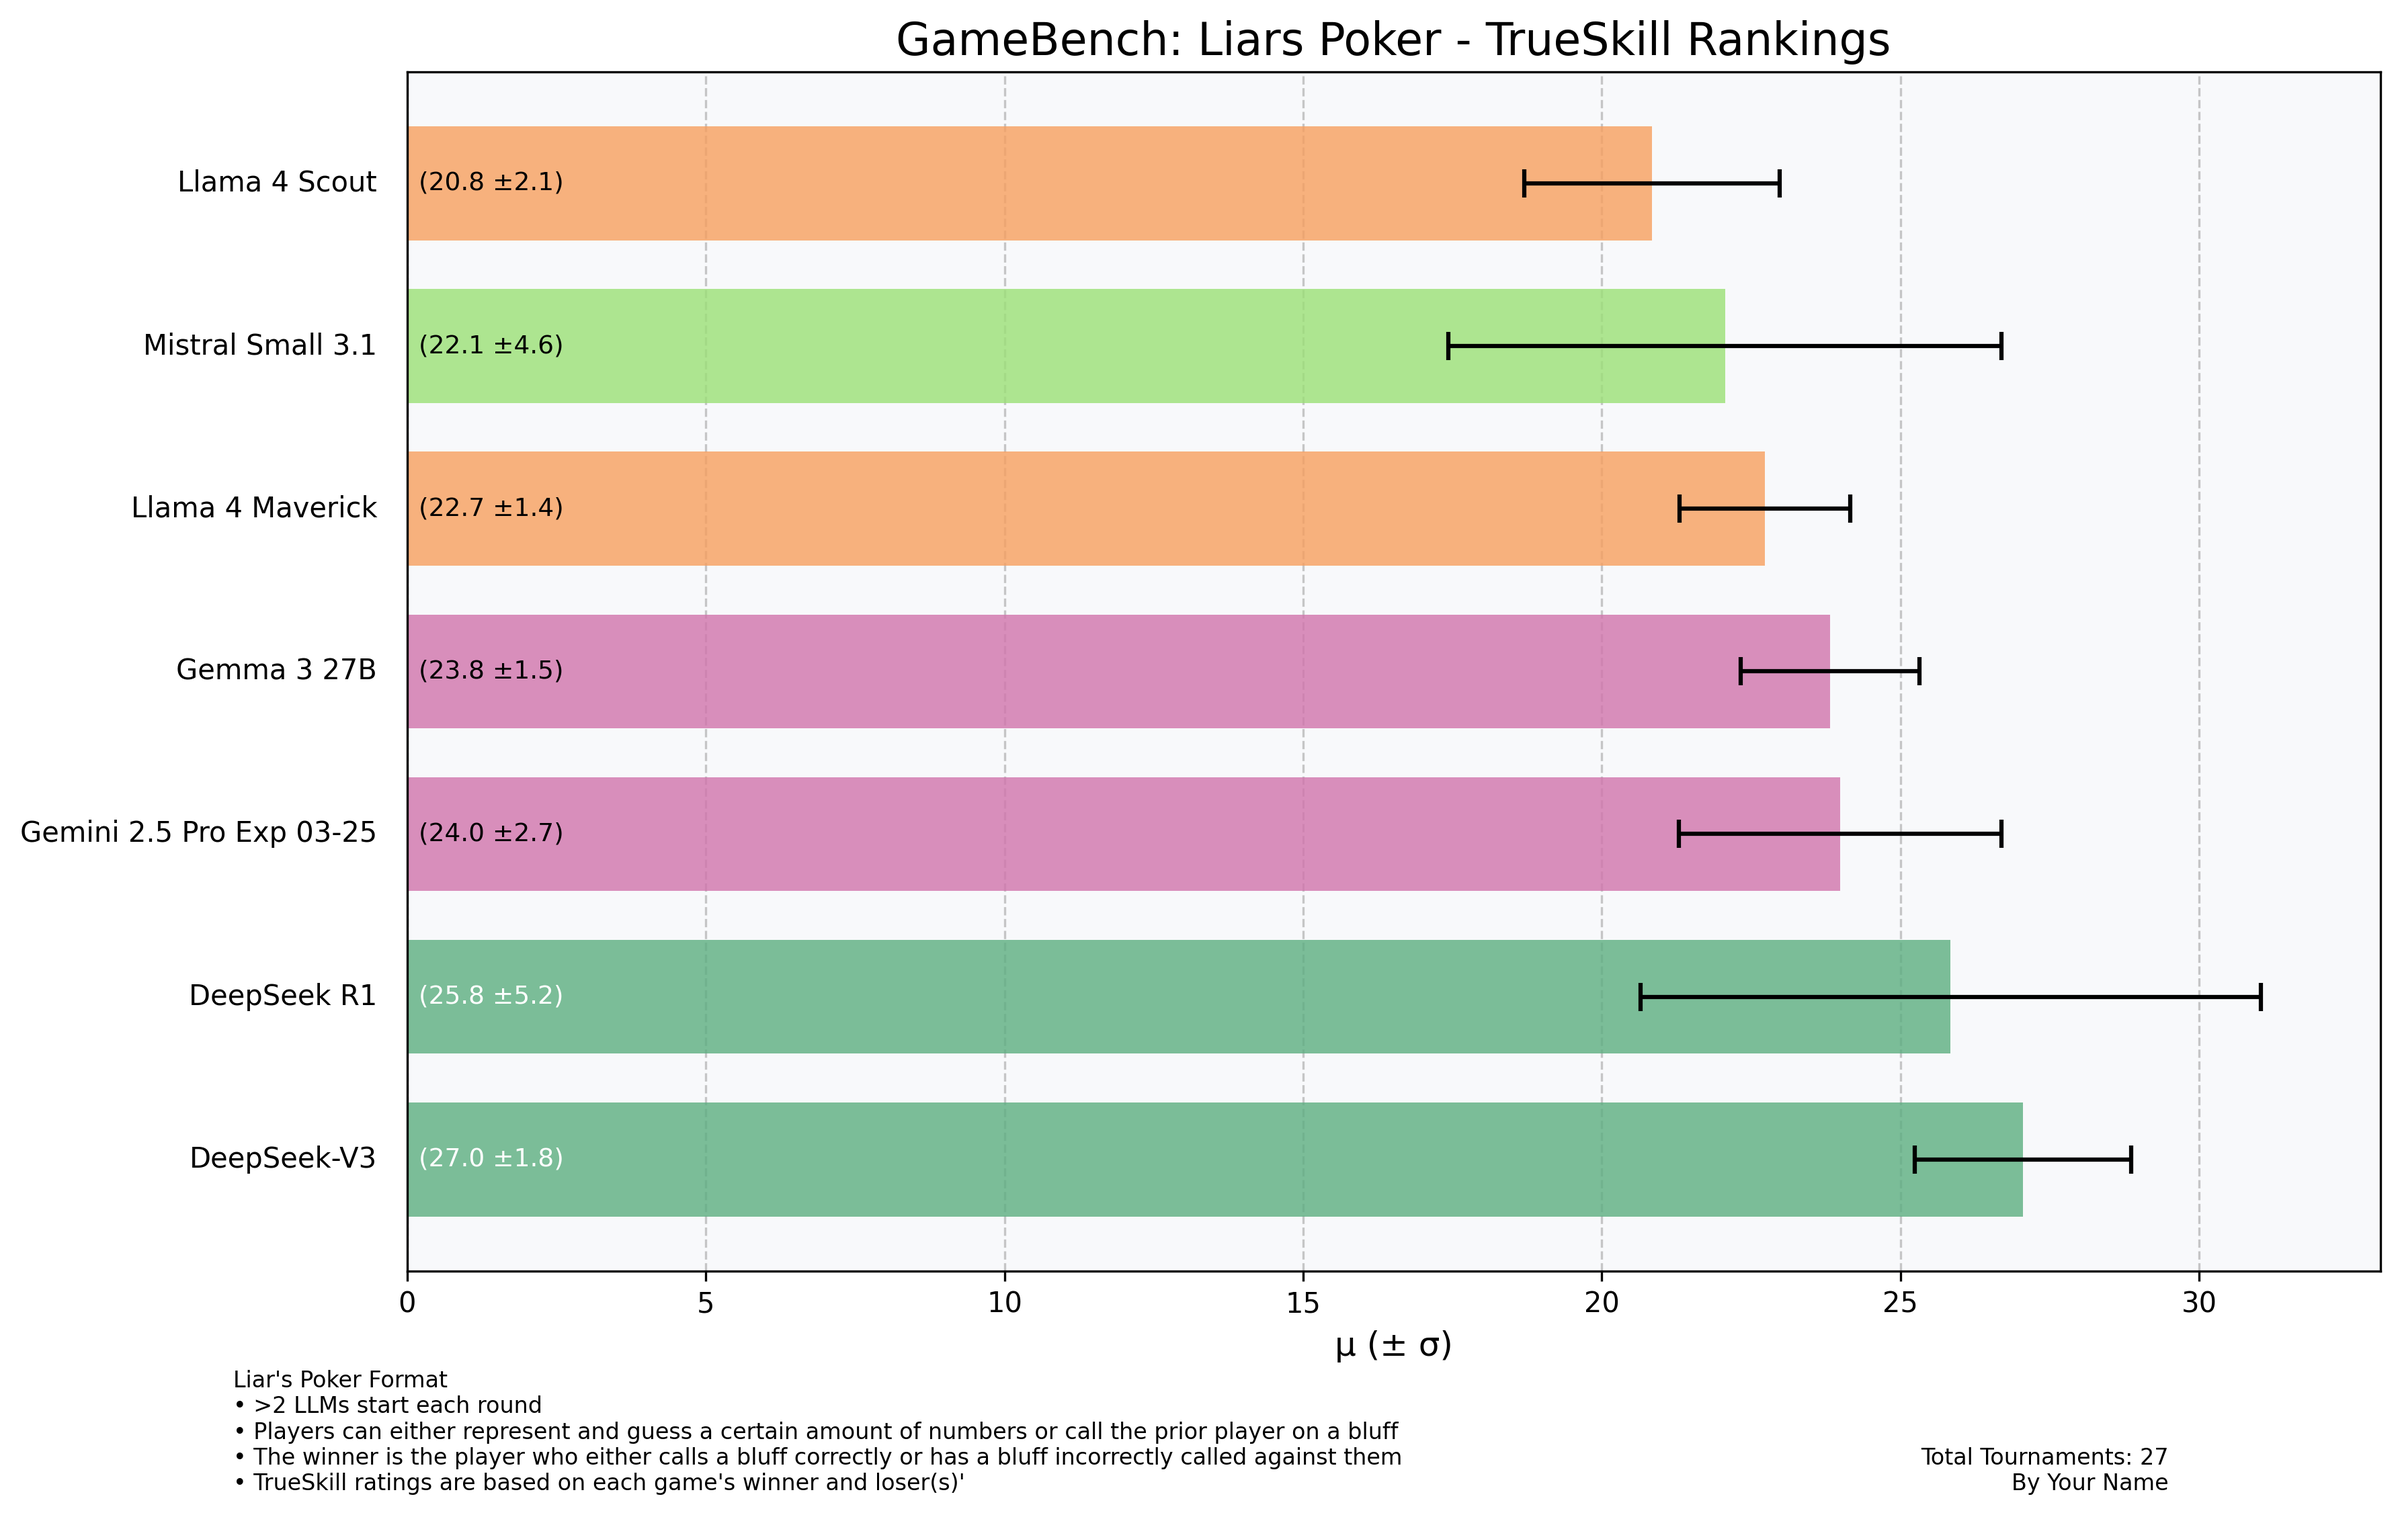
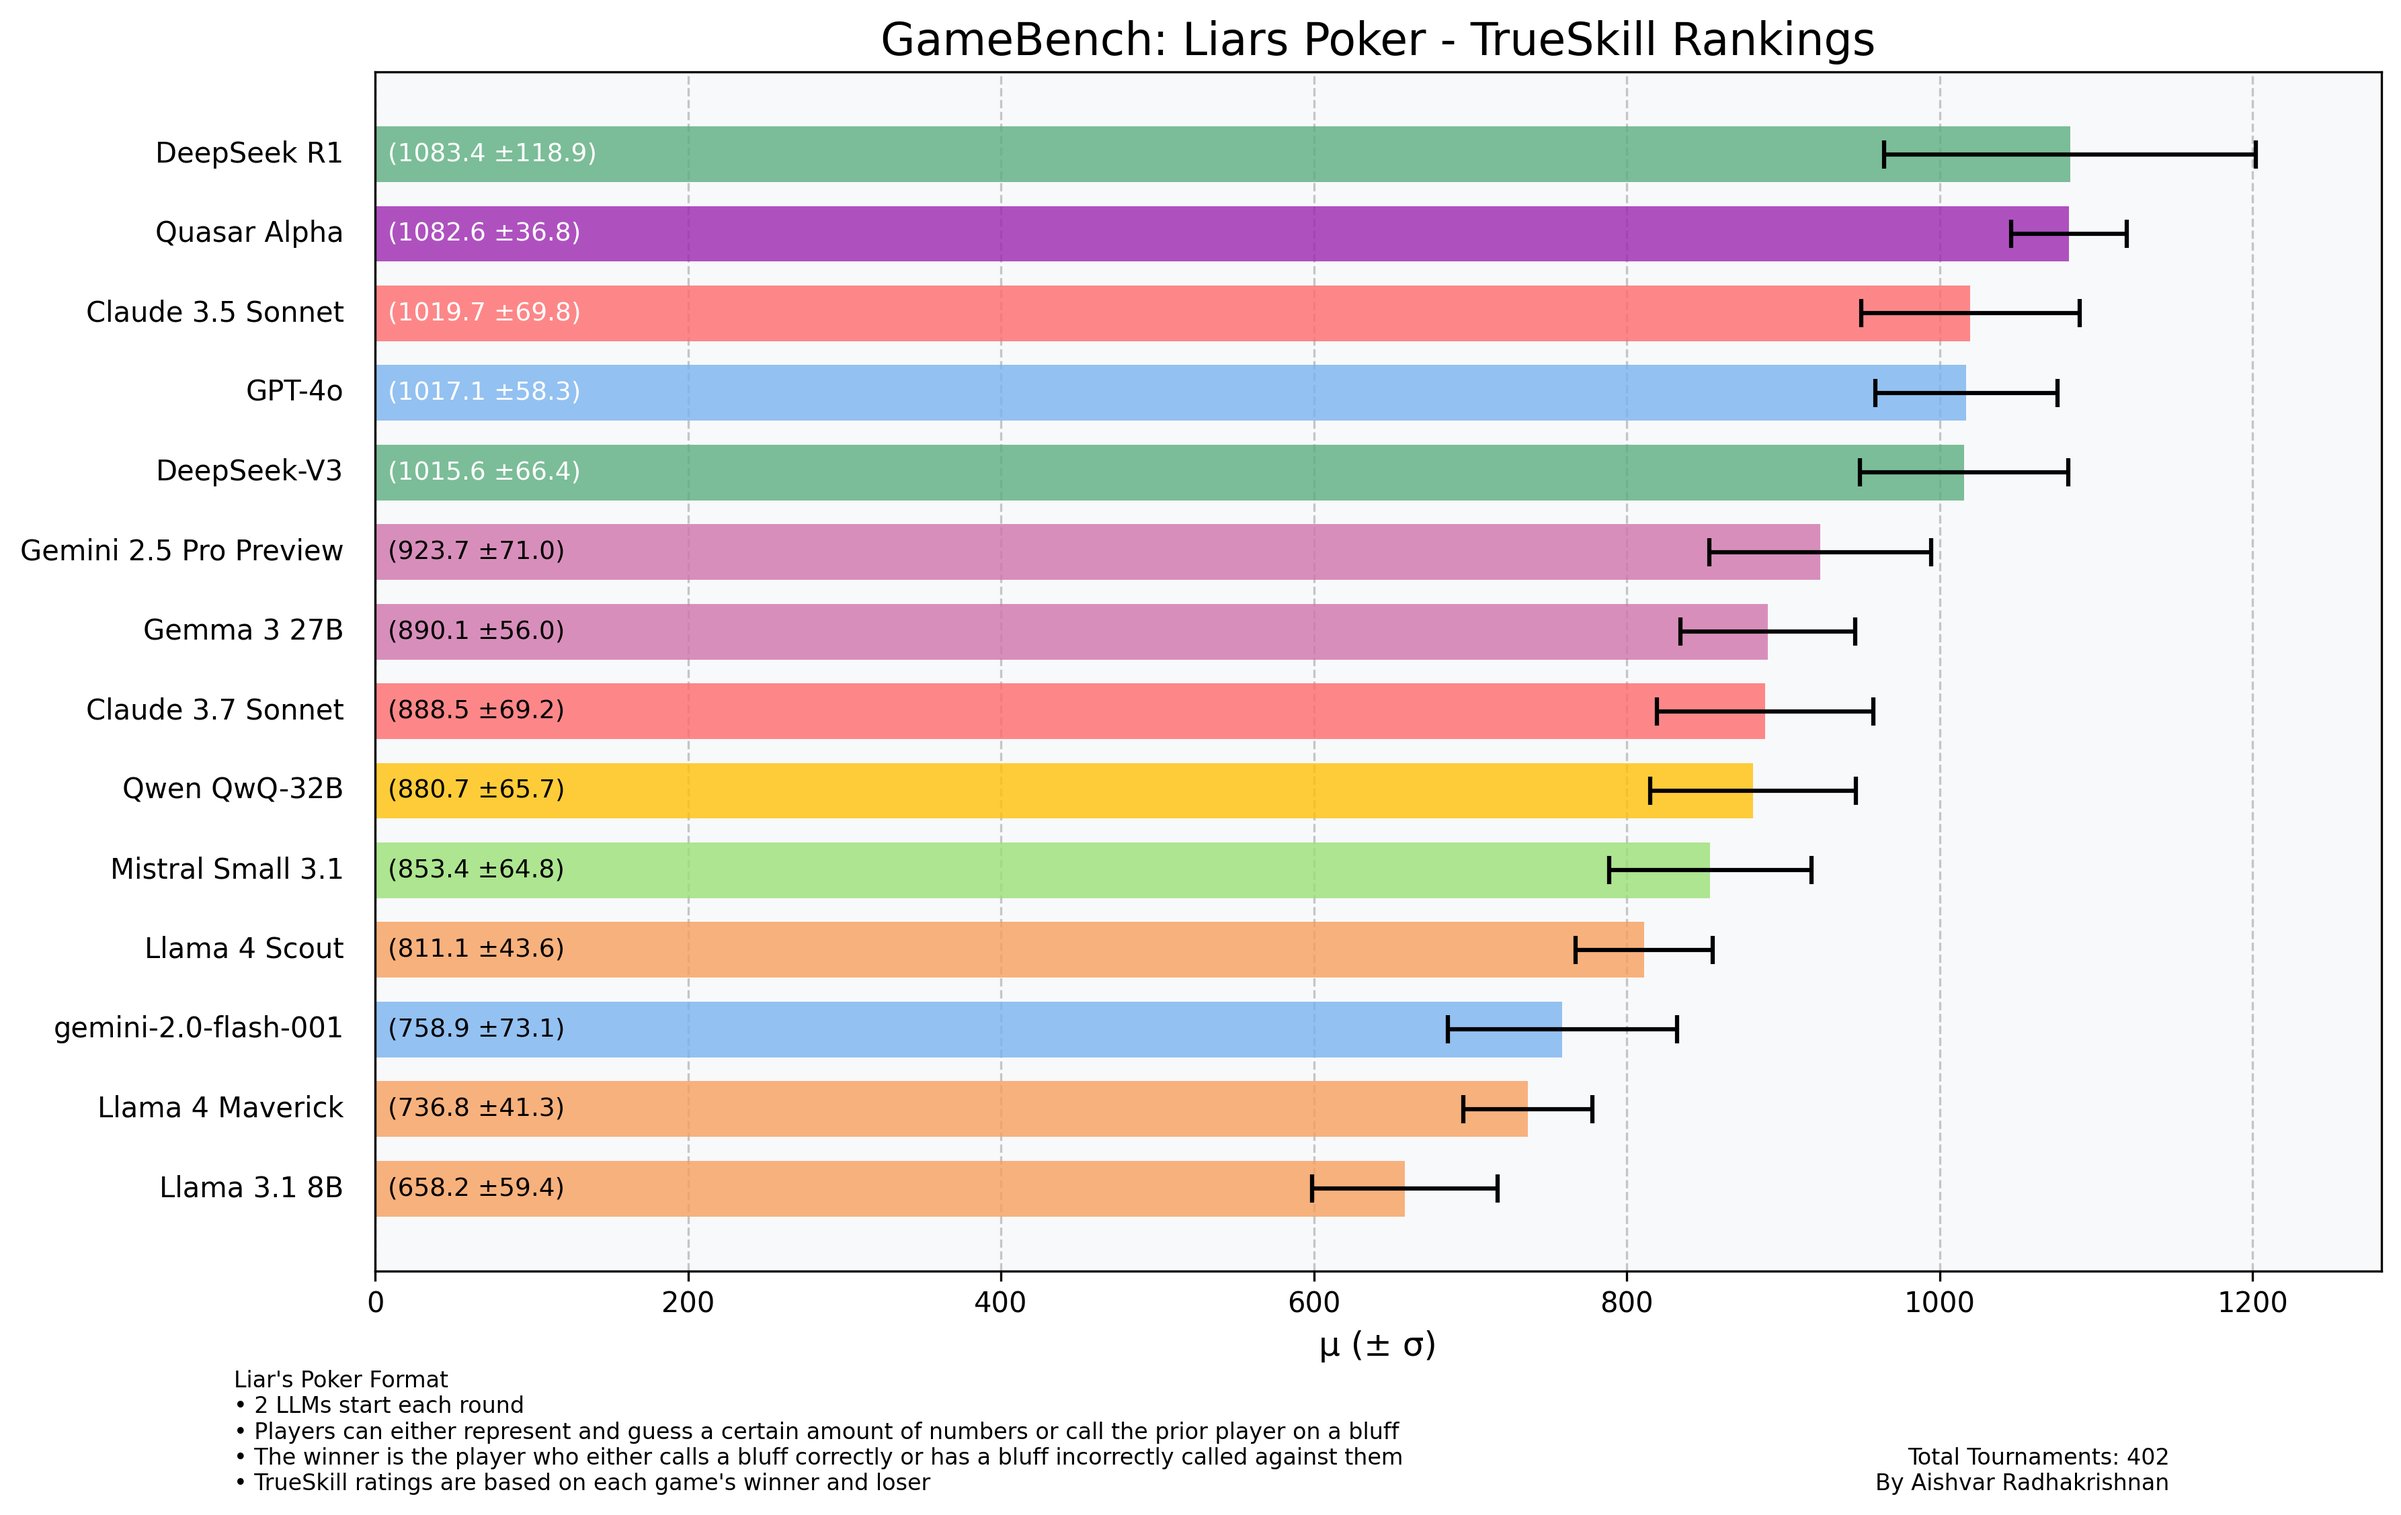
visualizer updated

diff --git a/result_visualizer.py b/result_visualizer.py
@@ -7,49 +7,72 @@ import json
 with open('model_ratings.json', 'r') as file:
     data = json.load(file)
 
+# Multiplier for mu and sigma values
+multiplier = 40
+
 # Extract model data
 models = []
 mu_values = []
 sigma_values = []
-games = [] #to add later 
 
 for model_full, ratings in data['model_ratings'].items():
     # Extract and format model name for cleaner display
-    if 'deepseek-chat-v3' in model_full:
-        model_name = 'DeepSeek-V3'
-    elif 'deepseek-r1' in model_full:
-        model_name = 'DeepSeek R1'
-    elif 'gemini-2.5-pro' in model_full:
-        model_name = 'Gemini 2.5 Pro Exp 03-25'
-    elif 'gemma-3-27b' in model_full:
-        model_name = 'Gemma 3 27B'
-    elif 'llama-4-maverick' in model_full:
-        model_name = 'Llama 4 Maverick'
-    elif 'llama-4-scout' in model_full:
-        model_name = 'Llama 4 Scout'
-    elif 'mistral-small' in model_full:
-        model_name = 'Mistral Small 3.1'
+    if '/' in model_full:
+        # For models with provider/model format
+        provider, model_part = model_full.split('/', 1)
+        
+        if 'deepseek-chat-v3' in model_part:
+            model_name = 'DeepSeek-V3'
+        elif 'deepseek-r1' in model_part:
+            model_name = 'DeepSeek R1'
+        elif 'gemini-2.5-pro-preview' in model_part:
+            model_name = 'Gemini 2.5 Pro Preview'
+        elif 'gemma-3-27b' in model_part:
+            model_name = 'Gemma 3 27B'
+        elif 'llama-4-maverick' in model_part:
+            model_name = 'Llama 4 Maverick'
+        elif 'llama-4-scout' in model_part:
+            model_name = 'Llama 4 Scout'
+        elif 'llama-3.1-8b' in model_part:
+            model_name = 'Llama 3.1 8B'
+        elif 'mistral-small' in model_part:
+            model_name = 'Mistral Small 3.1'
+        elif 'qwq-32b' in model_part:
+            model_name = 'Qwen QwQ-32B'
+        elif 'quasar-alpha' in model_part:
+            model_name = 'Quasar Alpha'
+        else:
+            model_name = model_part
     else:
-        model_name = model_full.split('/')[1].split(':')[0]
+        # For models without provider prefix
+        if 'claude-3-7-sonnet' in model_full:
+            model_name = 'Claude 3.7 Sonnet'
+        elif 'claude-3-5-sonnet' in model_full:
+            model_name = 'Claude 3.5 Sonnet'
+        elif 'gpt-4o' in model_full:
+            model_name = 'GPT-4o'
+        elif 'gemini-2.0-flash' in model_full:
+            model_name = 'Gemini 2.0 Flash'
+        else:
+            model_name = model_full
     
-    # Extract values from the JSON
-    mu = ratings['mu']
-    sigma = ratings['sigma']
-    
+    # Extract values from the JSON and multiply by 40
+    mu = ratings['mu'] * multiplier
+    sigma = ratings['sigma'] * multiplier
     
     models.append(model_name)
     mu_values.append(mu)
     sigma_values.append(sigma)
 
-# Create DataFrame and sort by mu (descending)
+# Create DataFrame and sort by mu (ascending to put highest values at the bottom)
 df = pd.DataFrame({
     'model': models,
     'mu': mu_values,
     'sigma': sigma_values
 })
-df = df.sort_values('mu', ascending=False).reset_index(drop=True)
+df = df.sort_values('mu', ascending=True).reset_index(drop=True)  # Sort ascending
 
-# Assign colors based on model family (similar to reference image)
+# Assign colors based on model family
 colors = []
 for model in df['model']:
     if 'DeepSeek' in model:
@@ -60,8 +83,16 @@ for model in df['model']:
         colors.append('#F79F5E')  # Orange for Meta/Llama models
     elif 'Mistral' in model:
         colors.append('#9BE076')  # Light green for Mistral
+    elif 'Claude' in model:
+        colors.append('#FF6B6B')  # Red for Claude
+    elif 'GPT' in model:
+        colors.append('#7AB3EF')  # Blue for OpenAI
+    elif 'Qwen' in model or 'QwQ' in model:
+        colors.append('#FFC107')  # Yellow for Qwen
+    elif 'Quasar' in model:
+        colors.append('#9C27B0')  # Purple for Quasar
     else:
-        colors.append('#7AB3EF')  # Blue for others
+        colors.append('#7AB3EF')  # Default blue
 df['color'] = colors
 
 # Get number of tournaments from the timestamps
@@ -69,7 +100,7 @@ num_tournaments = len(data.get('processed_timestamps', []))
 
 # Create the plot
 fig, ax = plt.subplots(figsize=(12, 8))
-ax.set_facecolor('#F8F9FB')  # Light background like in original
+ax.set_facecolor('#F8F9FB')  # Light background
 ax.set_axisbelow(True)
 
 # Plot horizontal bars
@@ -85,31 +116,31 @@ for i, row in df.iterrows():
 # Add model names and stats
 for i, row in df.iterrows():
     # Model name on the left
-    ax.text(-0.5, y_pos[i], row['model'], ha='right', va='center', fontsize=10)
+    ax.text(-20, y_pos[i], row['model'], ha='right', va='center', fontsize=10)
     
-    # Stats on the bar
+    # Stats on the bar with multiplied values
     stats_text = f"({row['mu']:.1f} ±{row['sigma']:.1f})"
-    ax.text(0.2, y_pos[i], stats_text, va='center', fontsize=9, 
-            color='white' if row['mu'] > 25 else 'black')
+    ax.text(8, y_pos[i], stats_text, va='center', fontsize=9, 
+            color='white' if row['mu'] > 1000 else 'black')
 
 # Customize axes
 ax.set_yticks([])
 ax.set_xlabel('μ (± σ)', fontsize=12)
 ax.set_title('GameBench: Liars Poker - TrueSkill Rankings', fontsize=16)
 
-# Set x-axis limits and grid
-x_max = max(df['mu'] + df['sigma']) + 2
+# Set x-axis limits and grid (adjusted for multiplied values)
+x_max = max(df['mu'] + df['sigma']) + 80
 ax.set_xlim(0, x_max)
-ax.set_xticks(range(0, int(x_max) + 1, 5))
+ax.set_xticks(np.arange(0, int(x_max) + 1, 200))
 ax.grid(axis='x', linestyle='--', alpha=0.7)
 
 # Add game information at bottom
 plt.figtext(0.1, 0.02, 
             "Liar's Poker Format\n"
-            "• >2 LLMs start each round\n"
+            "• 2 LLMs start each round\n"
             "• Players can either represent and guess a certain amount of numbers or call the prior player on a bluff\n"
             "• The winner is the player who either calls a bluff correctly or has a bluff incorrectly called against them\n"
-            "• TrueSkill ratings are based on each game's winner and loser(s)'",
+            "• TrueSkill ratings are based on each game's winner and loser",
             fontsize=8)
 
 # Add totals and attribution
